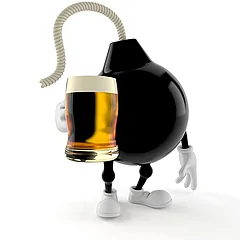
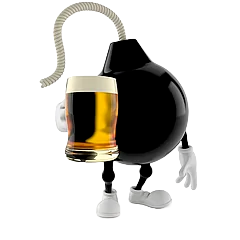
fixing github fonts

diff --git a/docs/assets/styles/style.css b/docs/assets/styles/style.css
@@ -1,21 +1,22 @@
-@font-face{
-  font-family:'Arcade Interlaced';
-  font-style:normal;
-  font-weight:400;
-  src:local('Arcade Interlaced'),
-  url('http://fonts.cdnfonts.com/css/arcade')
-  format('woff')}
-
-  @font-face{
-    font-family:'Arcade';
-    font-style:normal;
-    font-weight:400;
-    src:local('Arcade'),
-    url('https://allfont.net/allfont.css?fonts=arcade')
-    format('woff')}
-
-/* @import url('http://fonts.cdnfonts.com/css/arcade');
-@import url(https://allfont.net/allfont.css?fonts=arcade); */
+@import url("http://fonts.cdnfonts.com/css/arcade");
+@import url("https://fonts.googleapis.com/css2?family=Fira+Mono&family=Poppins:wght@900&family=Press+Start+2P&display=swap");
+@font-face {
+  font-family: "Press Start 2P";
+  font-style: normal;
+  font-weight: 400;
+  font-display: swap;
+  src: url(https://fonts.gstatic.com/s/pressstart2p/v14/e3t4euO8T-267oIAQAu6jDQyK3nYivNm4I81PZQ.woff2)
+    format("woff2");
+  unicode-range: U+0460-052F, U+1C80-1C88, U+20B4, U+2DE0-2DFF, U+A640-A69F,
+    U+FE2E-FE2F;
+}
+@font-face {
+  font-family: "Arcade Interlaced";
+  font-style: normal;
+  font-weight: 400;
+  src: local("Arcade Interlaced"),
+    url("https://fonts.cdnfonts.com/s/6068/ARCADE_I.woff") format("woff");
+}
 body {
   overflow: hidden;
   margin: 0;
@@ -28,18 +29,21 @@ body {
 
 #div-intro {
   /* background-color: gray; */
-  background: rgb(63,94,251);
-  background: linear-gradient(90deg, rgba(63,94,251,1) 0%, rgba(252,70,107,1) 100%);
+  background: rgb(63, 94, 251);
+  background: linear-gradient(
+    90deg,
+    rgba(63, 94, 251, 1) 0%,
+    rgba(252, 70, 107, 1) 100%
+  );
   position: absolute;
   width: 100vw;
   height: 100vh;
   /* background: url(/docs/assets/images/introimg.png) no-repeat center center */
-    fixed;
   text-align: center;
-  font-family: 'Arcade Interlaced', sans-serif;
+  font-family: "Arcade Interlaced", sans-serif;
+  /* font-family: "Press Start 2P", cursive; */
   font-size: 20px;
   z-index: 1;
-  
 }
 
 #div-game {
@@ -48,8 +52,13 @@ body {
   height: 100vh;
   /* background-color: gray;
   background: url(../images/background1.jpeg) no-repeat center center fixed; */
-  background: rgb(131,58,180);
-background: linear-gradient(90deg, rgba(131,58,180,1) 0%, rgba(253,29,29,1) 50%, rgba(252,176,69,1) 100%);
+  background: rgb(131, 58, 180);
+  background: linear-gradient(
+    90deg,
+    rgba(131, 58, 180, 1) 0%,
+    rgba(253, 29, 29, 1) 50%,
+    rgba(252, 176, 69, 1) 100%
+  );
   display: none;
   flex-direction: column;
   align-items: center;
@@ -63,7 +72,9 @@ background: linear-gradient(90deg, rgba(131,58,180,1) 0%, rgba(253,29,29,1) 50%,
 #start-button {
   font-size: 100px;
   background-color: #3455b1;
-  font-family: 'Arcade', arial;
+  /* font-family: "Arcade Interlaced", sans-serif; */
+  font-family: "Press Start 2P", cursive;
+  font-size: 75px;
   background-color: Transparent;
   color: #3455b1;
   padding: 20px 40px;

diff --git a/docs/assets/scripts/map.js b/docs/assets/scripts/map.js
@@ -1,19 +1,19 @@
 class TileMap {
   constructor(tileSize) {
     this.tileSize = tileSize;
-    this.wall = this.image("wall.png");
+    this.wall = this.image("wall1.jpg");
     this.box = this.image("box.png");
     this.map = [
       [1, 1, 1, 1, 1, 1, 1, 1, 1, 1, 1, 1, 1],
       [1, 2, 2, 1, 3, 1, 3, 1, 3, 1, 3, 1, 1],
       [1, 2, 3, 3, 3, 3, 3, 3, 3, 3, 3, 3, 1],
-      [1, 1, 3, 1, 3, 1, 3, 1, 3, 1, 3, 1, 1],
+      [1, 1, 3, 1, 3, 1, 3, 1, 3, 1, 3, 3, 1],
+      [1, 3, 3, 3, 3, 1, 1, 1, 1, 1, 1, 3, 1],
+      [1, 1, 3, 1, 3, 1, 3, 1, 3, 1, 1, 3, 1],
+      [1, 3, 3, 1, 1, 1, 3, 3, 3, 3, 1, 3, 1],
+      [1, 1, 3, 1, 3, 1, 3, 1, 3, 1, 1, 3, 1],
       [1, 3, 3, 3, 3, 3, 3, 3, 3, 3, 3, 3, 1],
-      [1, 1, 3, 1, 3, 1, 3, 1, 3, 1, 3, 1, 1],
-      [1, 3, 3, 3, 3, 3, 3, 3, 3, 3, 3, 3, 1],
-      [1, 1, 3, 1, 3, 1, 3, 1, 3, 1, 3, 1, 1],
-      [1, 3, 3, 3, 3, 3, 3, 3, 3, 3, 3, 3, 1],
-      [1, 1, 3, 1, 3, 1, 3, 1, 3, 1, 3, 1, 1],
+      [1, 1, 1, 1, 3, 1, 3, 1, 3, 1, 3, 1, 1],
       [1, 3, 3, 3, 3, 3, 3, 3, 3, 2, 3, 2, 1],
       [1, 1, 3, 1, 3, 1, 3, 1, 3, 1, 2, 2, 1],
       [1, 1, 1, 1, 1, 1, 1, 1, 1, 1, 1, 1, 1],

diff --git a/docs/assets/scripts/bomb.js b/docs/assets/scripts/bomb.js
@@ -14,7 +14,7 @@ class Bomb {
     this.timer = 120; // bomb blows up after 3 seconds.
   }
   drawBomb() {
-    this.image.src = "docs/assets/images/bomb.png";
+    this.image.src = "docs/assets/images/bomb2.png";
     this.ctx.drawImage(
       this.image,
       // this index = x
@@ -43,15 +43,15 @@ class Bomb {
     }
     //left
     if (
-      this.enemy.position[0] === this.x - 1 &&
-      this.enemy.position[1] === this.y
+      this.enemy.position[1] === this.x - 1 &&
+      this.enemy.position[0] === this.y
     ) {
       alert("BOOOOM");
     }
     //right
     if (
-      this.enemy.position[0] === this.x + 1 &&
-      this.enemy.position[1] === this.y
+      this.enemy.position[1] === this.x + 1 &&
+      this.enemy.position[0] === this.y
     ) {
       alert("BOOOOM");
     }

diff --git a/docs/assets/scripts/game.js b/docs/assets/scripts/game.js
@@ -34,6 +34,14 @@ class Game {
     // this.controls.bomb.drawBomb();
   };
 
+  checkGameOver() {
+    
+  }
+
+  // stop() {
+  //   clearInterval(this.intervalId);
+  // }
+
   updateBombs = () => {
     for (let i = 0; i < this.bombArr.length; i++) {
       if (this.bombArr[i].timer <= 0) {
@@ -42,6 +50,7 @@ class Game {
         this.bombArr.splice(i, 1);
       } else {
         this.bombArr[i].timer--;
+
         this.bombArr[i].drawBomb();
       }
     }

diff --git a/index.html b/index.html
@@ -6,6 +6,7 @@
     <meta name="viewport" content="width=device-width, initial-scale=1.0" />
     <link rel="stylesheet" href="docs/assets/styles/style.css" />
     <title>IronBomb</title>
+    <link href="http://fonts.cdnfonts.com/css/arcade-classic" rel="stylesheet">
   </head>
   <body>
     <div id="div-intro">
